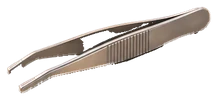
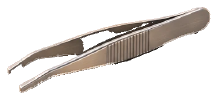
s08 w5a report, filmstrips and crops; the shelf tweezers re-made without faint alpha (art check)
Claude-Session: https://claude.ai/code/session_013C2XtPQ7vt1eLcYgYgK71D

diff --git a/build/reports/s08-w5a-clinic.md b/build/reports/s08-w5a-clinic.md
@@ -1,0 +1,31 @@
+# s08 wave 5A, the clinic I: boing, ear, tooth, the zooms (builder report; not judged)
+
+Branch `worktree-agent-a17cf64fa2dd1fbf8` from f36ca4ac, not pushed. Filmstrips and x2 crops: `build/reports/s08-w5a-clinic/`.
+
+## Flaws first
+
+1. **Eye, a step less zoomed (CLN-185)** is done from the host (`camera.view` in `eye.json`; eye.js is wave 5B's). It widens the drops view only; the chart keeps its framing. If 5B reframes the eye art, drop `camera.view`.
+2. **The room-to-close-up hand-over** (`zoom-*-in`) still cross-fades two drawings, now at the same place and size. For about 0.3 s the close-up's cut-out edge shows over the blurred room (the face's bottom edge, the cheeks' arc).
+3. **Tooth:** the brushing mouth turns into the wide-open mouth as the camera starts. The two are registered on the front teeth, but one frame is a double exposure (the lower teeth show faintly under the lips). The decay is not shown during the brushing.
+4. **Tooth hi-res:** `upscale.py` cannot run here (no torch). I ran its network and weights (Real-ESRGAN x2plus) in numpy on the teeth crop only (`mouth-v2-teeth-hd.webp`). The rest is the @2x.
+5. **Boing:** "a fifth up the bicep" is read as a fifth from the elbow's crease (the old spot was in it). The levers are small on a phone (35 svg units apart; the tube is the tap area too). The drop falls in front of the plunger's thumb.
+6. **Drops at L2+ now close with the ✓.** The "the syringe places itself, then the press" order needs a done moment, so the old "press closes the drops" path is gone.
+7. **No evidence specs were added** (evidence.json is not mine), so there was no red run. Of the 99 regression rows, I rechecked only the ones in the four flows' shots.
+
+## What changed
+
+- Host: one camera tween over the room and the close-up; `HOST.view`.
+- Boing: CLN-164 to 168 and 170. That covers the DM1 machine, the DM2 levers and the syringe sheets. The drops show as liquid bands. There is one count on the syringe and the cloth is in hand. No count-down or squash; a puff of mist instead.
+- Ear: CLN-135, 173, 174. The spots and their rule are gone; the tweezers are in layers; the kidney tray shows the wax in sight.
+- Tooth: CLN-163, 180 to 184. One picture and one camera; the s08b brush lies level with no turn. The fill has no line, the tip sits on the cavity and each cavity fills from its middle. The dial is styled from Cook's dial; overfill smooths back; the first go is scored.
+
+## Proof
+
+- `checks.mjs`: unit, words, static, leak, bump, specs and size all pass. Load check on clinic morning/tooth/boing/ear/eye: ok.
+- Sandbox `w5a-quick` (4 flows, 1366): CONTRACT PASSED, CHECK PASSED with 0 new findings. `shotdiff`: 34 changed, all on these screens.
+- CLN-182, measured: gauge and button centre y are equal and exactly midway at 1366x768 (563.9), 800x360 (263.7) and 1024x768 (567.6). The nozzle tip is 0 px from the cavity centre.
+- Filmstrips: boing L1/L3/800; ear L1/L3 and the grab x2; tooth L1/L2 overfill/L3 and the fill x2; zoom in and out for the tooth and the eye at 1366 and 800x360 (the real clinic page).
+
+QA: TXT ✅ · LAY ⚠ (flaw 5) · CMP ✅ · LNG ✅ · INT ⚠ (flaw 6) · AUD n/a · ART ⚠ (flaws 2, 3) · CUL ✅ (no needle ever shown).
+
+Open for the judge: every row above.
